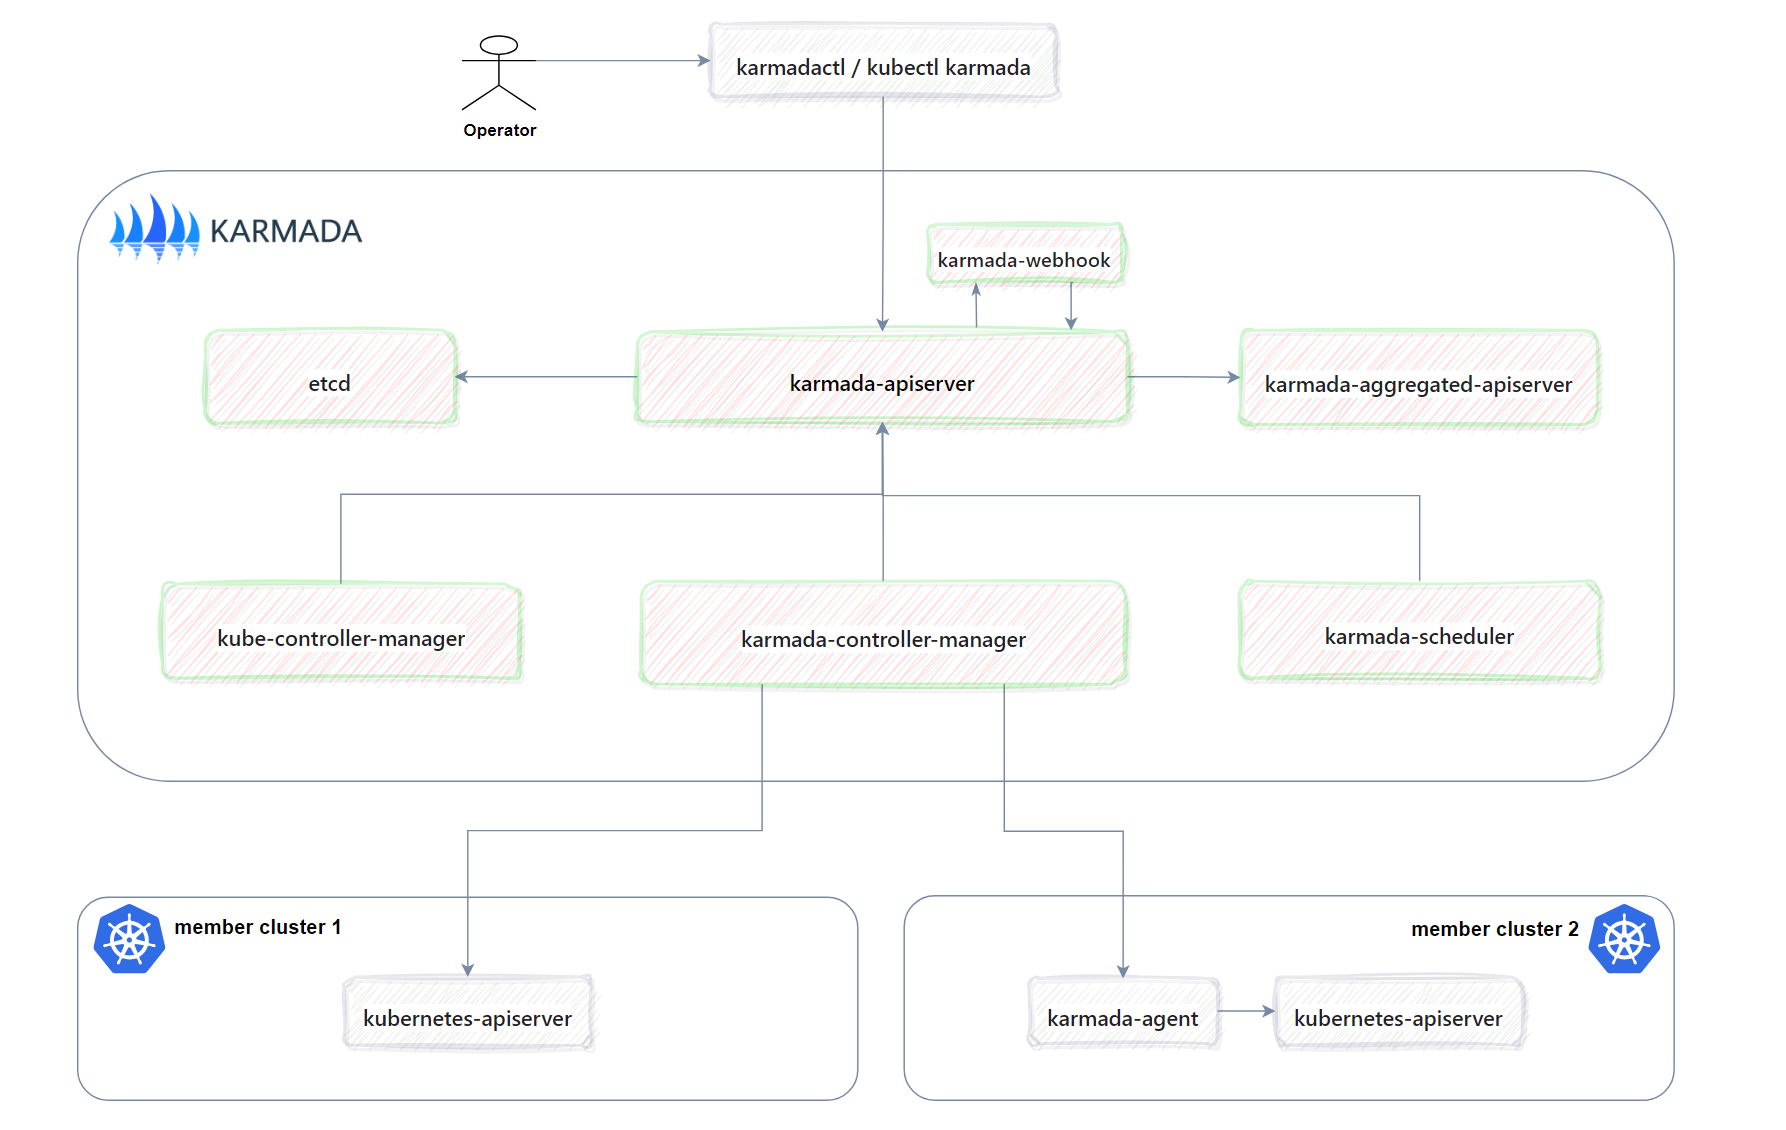
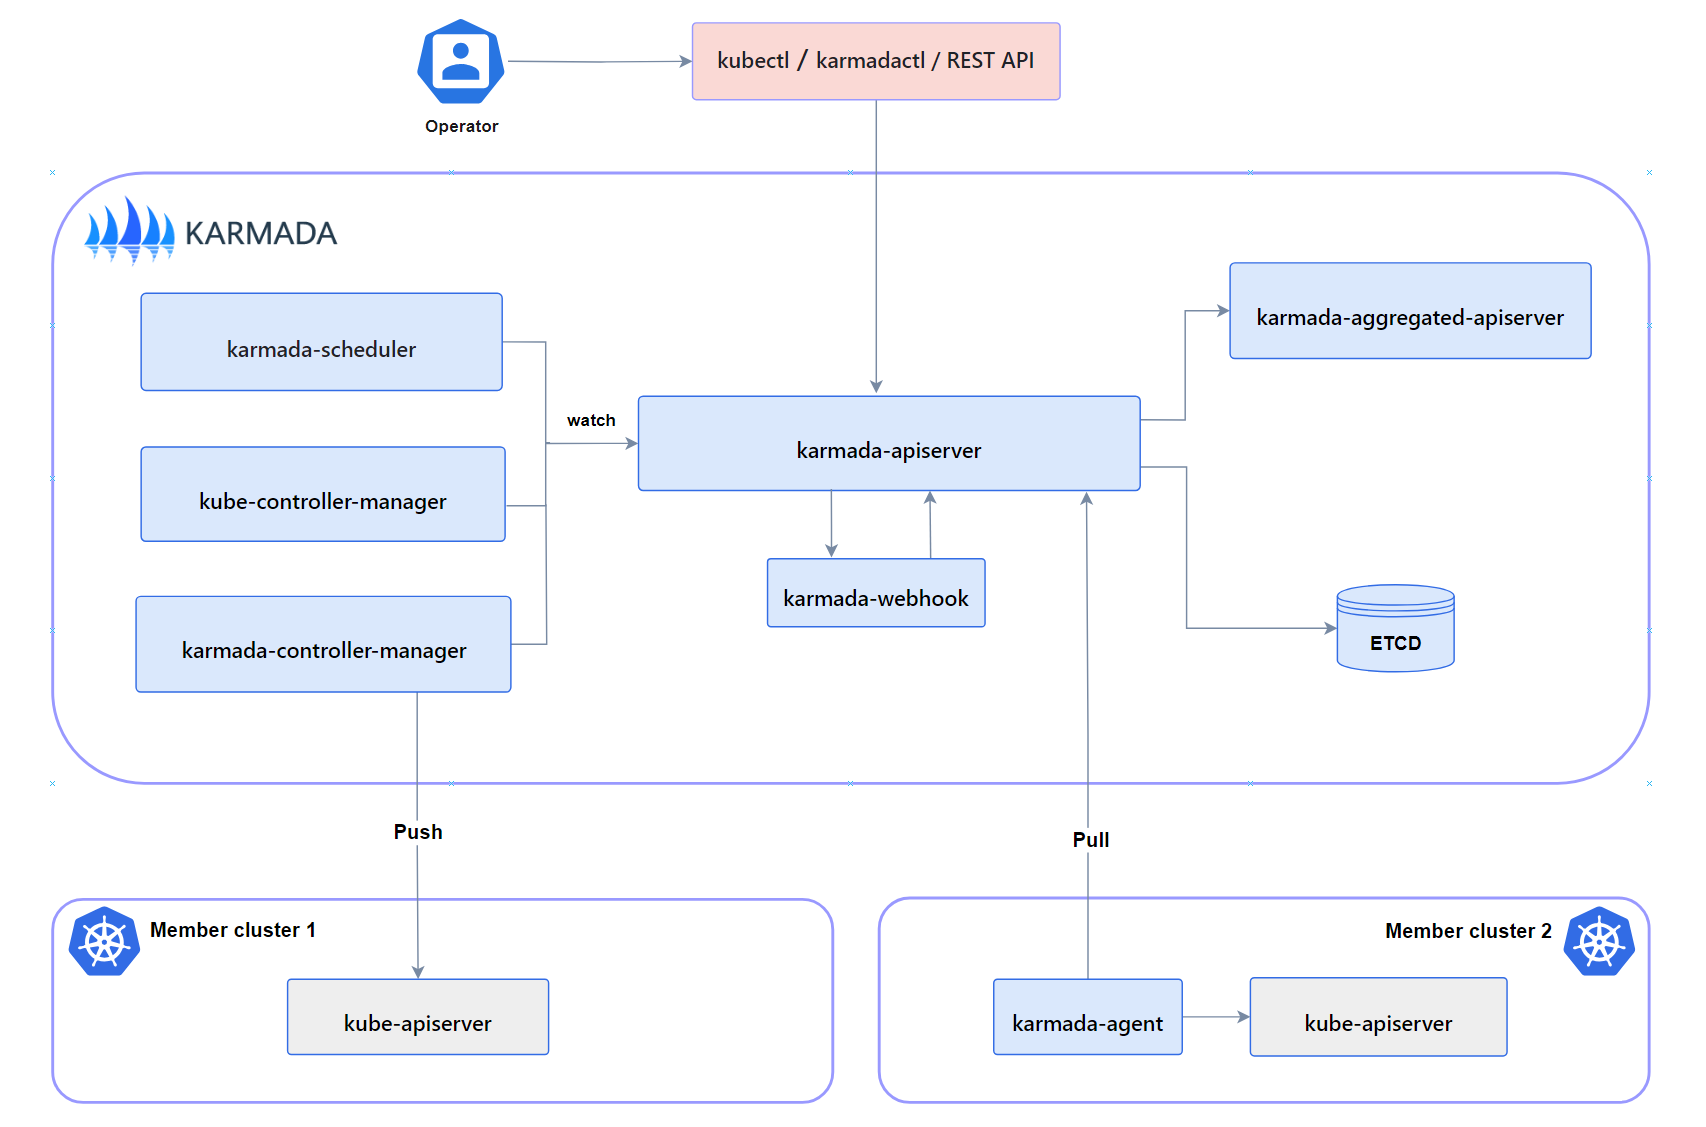
doc: add core concepts of components

diff --git a/docs/core-concepts/components.md b/docs/core-concepts/components.md
@@ -6,70 +6,66 @@ This document provides an overview of the components required for a fully functi
 
 ![components](../resources/general/components.png)
 
-## Essential Components
+## Control Plane Components
+
+The control plane's components make global decisions about the cluster (for example, scheduling), 
+as well as detecting and responding to cluster events (for example, starting up a new pod when 
+a deployment's replicas field is unsatisfied).
 
 ### karmada-apiserver
 
-This component uses the official image of Kubernetes and plays a crucial role in handling API requests,
-
-facilitating communication with the karmada-aggregated-apiserver, various controllers, karmada-scheduler,
-
+This component uses the official image of Kubernetes and plays a crucial role in handling API requests, 
+facilitating communication with the karmada-aggregated-apiserver, various controllers, karmada-scheduler, 
 karmada-webhook, and persisting data in etcd.
 
 ### karmada-aggregated-apiserver
 
 This component is used to access resources on the member cluster through karmada-apiserver, 
-
-achieving unified authentication on the Karmada control plane and authentication through user impersonation.
+achieving unified authentication on the Karmada control plane and authentication through user impersonation. 
 
 The resources installed in the aggregate apiserver include clusters, clusters/status, clusters/proxy.
 
 ### kube-controller-manager
 
 This component uses the official image of Kuberntes, the difference is that only several controllers are 
-
 enabled such as namespace, garbagecollector, serviceaccount-token controllers.
 
 > When users submit Deployment or other Kubernetes standard resources to the karmada-apiserver,
->
 > they are solely recorded in the etcd of the Karmada control plane. Subsequently, these resources are
->
 > synchronized with the member cluster. However, it's important to note that these Deployment resources
->
 > do not undergo reconciliation processes (such as pod creation) in the Karmada control plane cluster.
 
 ### karmada-controller-manager
 
 This component performs operations based on the API objects you created through the karmada-apiserver
 
-This component runs various controllers, which watch karmada objects and then talk to the underlying 
-
+This component runs various controllers, which watch karmada objects and then talk to the underlying
 clusters' API servers to create regular Kubernetes resources.
 
-1. Cluster Controller: attaches kubernetes clusters to Karmada for managing the lifecycle of the clusters by creating cluster objects.
+1. Cluster Controller: attaches kubernetes clusters to Karmada for managing the lifecycle of the clusters 
+   by creating cluster objects.
 
-2. Policy Controller: watches PropagationPolicy objects. When a PropagationPolicy object is added, the controller selects a group of 
+2. Policy Controller: watches PropagationPolicy objects. When a PropagationPolicy object is added, the 
+   controller selects a group of resources matching the resourceSelector and create ResourceBinding 
+   with each single resource object.
 
-   resources matching the resourceSelector and create ResourceBinding with each single resource object.
+3. Binding Controller: watches ResourceBinding objects and create a Work object corresponding to each 
+   cluster with a single resource manifest.
 
-3. Binding Controller: watches ResourceBinding objects and create a Work object corresponding to each cluster with a single resource manifest.
-
-4. Execution Controller: watches Work objects. When Work objects are created, the controller will distribute the resources to member clusters.
+4. Execution Controller: watches Work objects. When Work objects are created, the controller will 
+   distribute the resources to member clusters.
 
 ### karmada-scheduler
 
-This component is responsible for scheduling k8s native API resource objects (including CRD resources) to member clusters, 
-
+This component is responsible for scheduling k8s native API resource objects (including CRD resources) to member clusters,
 including scheduling strategies and timing. At the same time, it also supports extending scheduling capabilities through plugins.
 
-For some resource objects that need to calculate the replica ratio, the scheduling plugin will first filter out some clusters, 
-
+For some resource objects that need to calculate the replica ratio, the scheduling plugin will first filter out some clusters,
 and then make a decision on the number of replicas that the resource object should distribute in each cluster.
 
 ### karmada-webhook
 
-This component is responsible for verifying the format of resources object which is in the charge of , 
-
+This component is responsible for verifying the format of resources object which is in the charge of ,
 as well as intercepting and modifying relevant data before it entering the ETCD.
 
 ### etcd
@@ -78,53 +74,42 @@ Consistent and highly-available key value store used as Karmada' backing store f
 
 ### karmada-agent
 
-Karmada has two manage mode such as Push and Pull, karmada-agent shall be deployed on each Pull mode member cluster, 
-
-responsible for actively pulling workload from the control plane, and applying it to current member cluster. 
-
+Karmada has two manage mode such as Push and Pull, karmada-agent shall be deployed on each Pull mode member cluster,
+responsible for actively pulling workload from the control plane, and applying it to current member cluster.
 Besides, the agent also in charge of collecting and reporting current cluster status to control plane.
 
 ## Addons
 
 ### karmada-scheduler-estimator
 
-This component is responsible for providing the karmada-scheduler with a more precise desired state of the running instances of the 
-
-member cluster. Early karmada-scheduler only supported scheduling the number of replicas based on the total number of cluster resources. 
-
+This component is responsible for providing the karmada-scheduler with a more precise desired state of the running instances of the
+member cluster. Early karmada-scheduler only supported scheduling the number of replicas based on the total number of cluster resources.
 In this case, scheduling failure occurred when the total cluster resources were sufficient but each node resources were insufficient.
 
-To address this issue, the estimator component was introduced, which calculates the number of callable replicas for each node 
-
+To address this issue, the estimator component was introduced, which calculates the number of callable replicas for each node
 based on resource requests, thereby calculating the true number of schedulable replicas for a cluster.
 
 ### karmada-descheduler
 
-This component is a cronjob responsible for detecting all Deployments at regular intervals (every 2 minutes by default), 
-
+This component is a cronjob responsible for detecting all Deployments at regular intervals (every 2 minutes by default),
 and triggering reschedule based on instance state changes in member clusters. 
 
-The descheduler only takes effect when the scheduling strategy is dynamic division 
-
+The descheduler only takes effect when the scheduling strategy is dynamic division
 and it perceives how many instance state has changed by calling scheduler-estimator.
 
 ### karmada-search
 
-Karmada search is used to cache resource objects and events deployed in member clusters, 
-
+Karmada search is used to cache resource objects and events deployed in member clusters,
 and to provide retrieval services externally through search APIs.
 
-Unlike the query services provided by the aggregation API, cache retrieval does not require accessing the target cluster 
-
+Unlike the query services provided by the aggregation API, cache retrieval does not require accessing the target cluster
 and is targeted at scenarios that require frequent data search and analysis, such as building real-time resources and event dashboards.
 
 ### karmadactl
 
-Users can use karmadactl as client to enjoy karmada, such as performing join/unjoin of a member cluster, 
-
+Users can use karmadactl as client to enjoy karmada, such as performing join/unjoin of a member cluster,
 mark/unmark a member cluster as non schedulable and so on.
 
 ### kubectl karmada
 
 kubectl karmada provides capabilities in the form of kubectl plugins, yet its realization is exactly the same as karmadactl.
-
